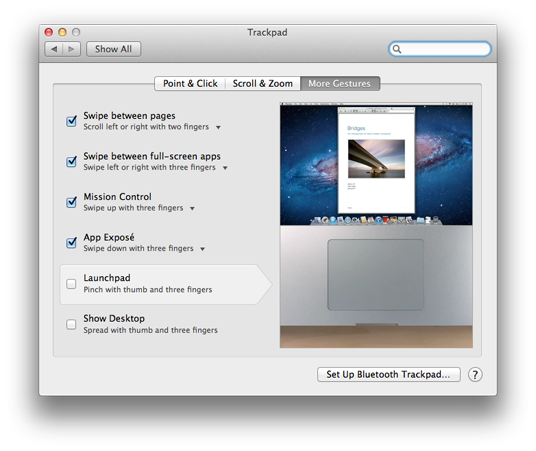
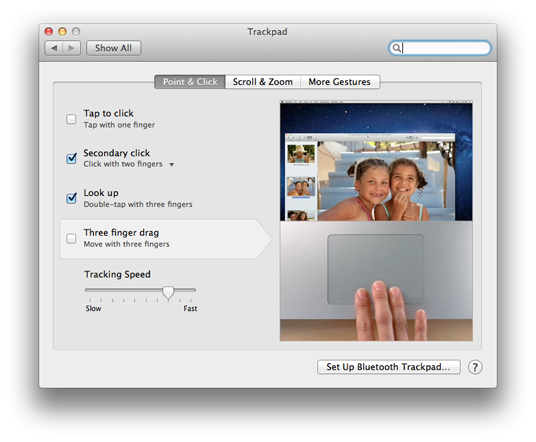
updates in swipe documentation for v0.10.3

diff --git a/swipe.md b/swipe.md
@@ -12,12 +12,12 @@ After you have turned this on, you can use the trackpad to move between the desk
 
 Use your fingers to move up, down, left and right.
 
+You can choose to invert the direction your fingers should move if the way it works does not suit your preference.
+
 <img src="/images/swipe-fingers.png">
 
-It's important to note that the system also uses three and four finger swipes, and you should disable these if you find it interferes with TotalSpaces.
-
-We do at least recommend that you turn off the Launchpad and Show desktop gestures in Trackpad preferences if you use this feature because they are reasonably easy to trigger by mistake.
+It's important to note that the system also uses three and four finger gestures, and these could conflict with your settings in TotalSpaces.
+ 
+In most cases everything should work as expected (and TotalSpaces will override the system settings if they are set to use the same number of fingers), but if you use three finger swiping you must disable "Three finger drag" in trackpad preferences.
 
 <img src="/images/trackpad-preferences.png">
-
-There's an <a href="/faq">FAQ about why we recommend 5 fingers</a>.

diff --git a/faq.md b/faq.md
@@ -22,12 +22,6 @@ You can now do this from the new [Apps preferences](/apps)
 
 Control-click on the app in the dock, then choose Options and Assign to All Desktops.
 
-## Why do you recommend 5 finger swiping?
-
-It turns out that the way the trackpad driver and settings work make it very difficult to prevent 3 and 4 finger swipe gestures being delivered to other apps. We found during testing that some apps (like Safari and Xcode) get these events and change state when you are trying to change desktop with 3 or 4 finger gestures. Also the behaviour of the trackpad driver was not at all consistent.
-
-So in order to avoid this we recommend 5 finger swiping. However, some people have had good results with 4 fingers, and 3 finger swiping is really the only option for the magic mouse, so you may find these settings to your taste.
-
 ## How can I uninstall TotalSpaces?
 
 Use [the uninstaller](http://downloads.binaryage.com/UninstallTotalSpaces.app.zip).
